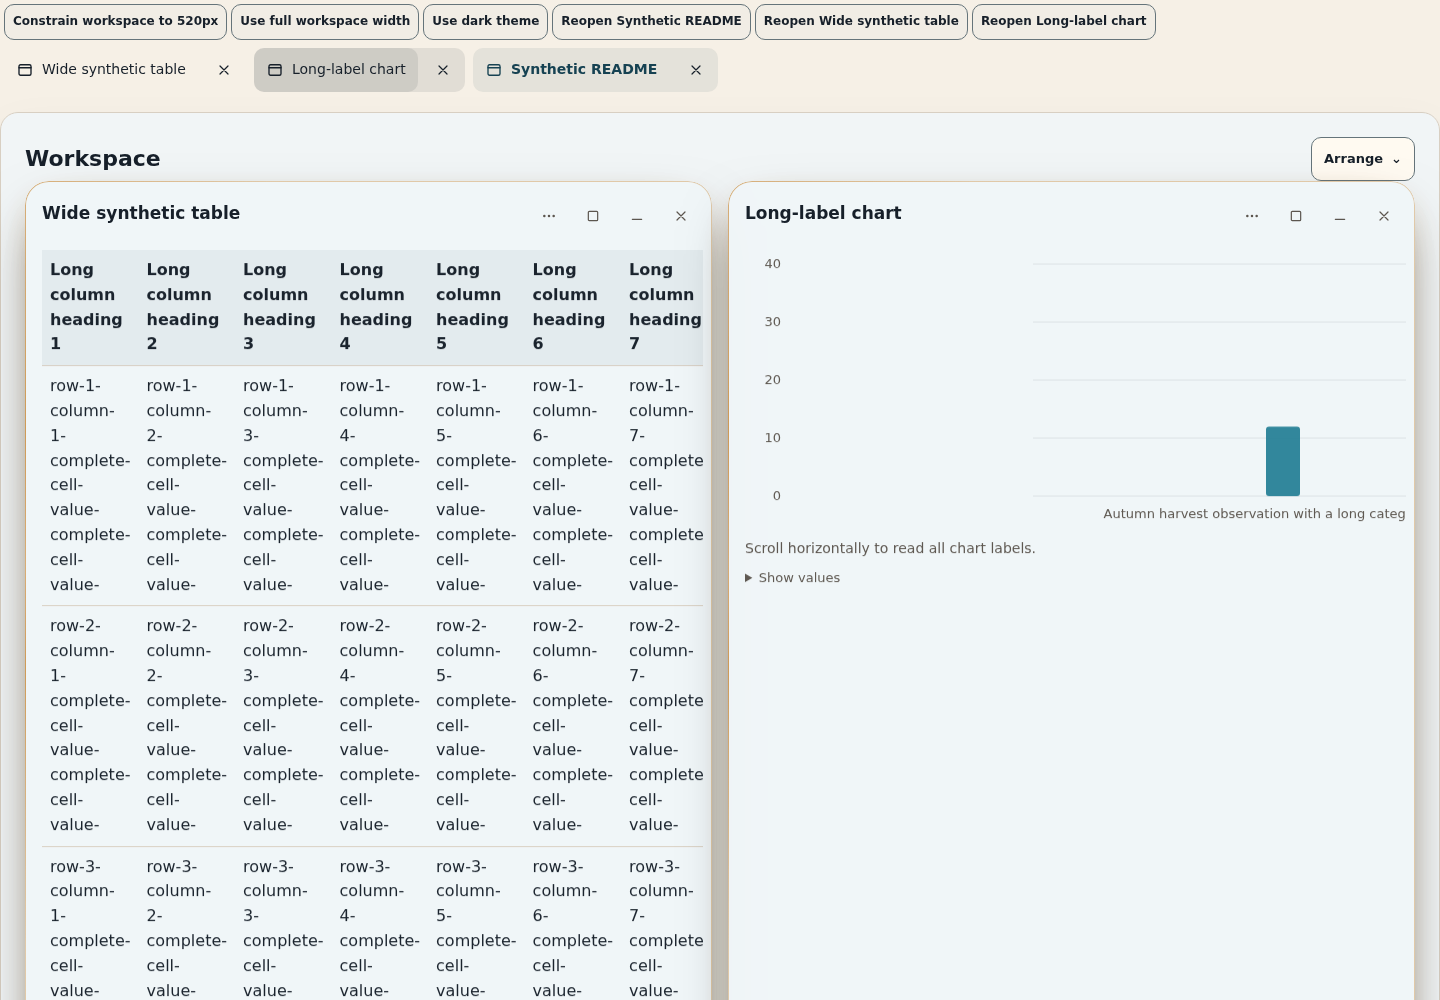
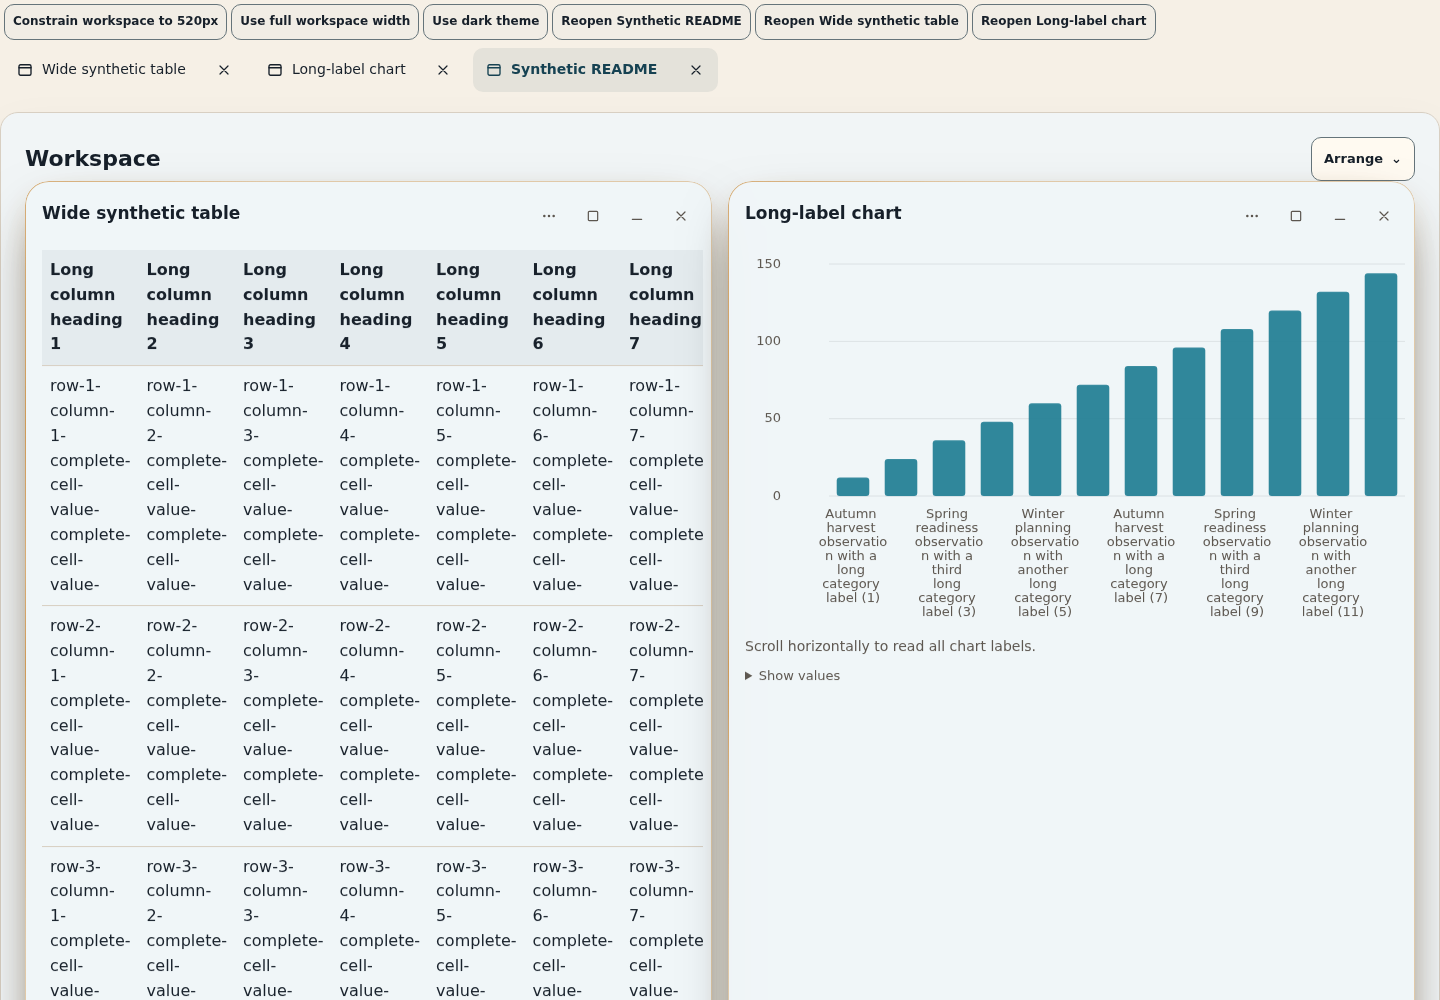
fix: Keep chart plots visible on narrow screens

Changed region(s): [[0.5312, 0.248, 0.9688, 0.682], [0.1562, 0.031, 0.3125, 0.093]]

diff --git a/apps/web/src/ChartView.tsx b/apps/web/src/ChartView.tsx
@@ -2,6 +2,21 @@ import { useEffect, useId, useRef, useState } from 'react';
 import { chartLayout, formatChartNumber, formatChartX, xPosition, yPosition, type ChartSeries } from './chart-data';
 
 const margin = { top: 14, right: 16, bottom: 34, left: 44 };
+const labelLineHeight = 14;
+
+function wrapChartLabel(label: string, maxCharacters: number) {
+  const remaining = Array.from(label);
+  const lines: string[] = [];
+  while (remaining.length > maxCharacters) {
+    let breakAt = Math.min(maxCharacters, remaining.length);
+    while (breakAt > 0 && !/\s/u.test(remaining[breakAt - 1]!)) breakAt -= 1;
+    if (breakAt === 0) breakAt = Math.min(maxCharacters, remaining.length);
+    lines.push(remaining.splice(0, breakAt).join(''));
+  }
+  lines.push(remaining.join(''));
+  return lines;
+}
+
 // Cyan and amber first (the house pair), then softer versions of each for a third to fifth series.
 const colours = [
   'var(--glass-edge-cool)',
@@ -27,15 +42,11 @@ export function ChartView({ kind, series, title }: { kind: 'line' | 'bar' | 'are
     observer.observe(element);
     return () => observer.disconnect();
   }, []);
-  const height = availableWidth < 480 ? 220 : 280;
   const plotWidth = availableWidth - margin.left - margin.right;
-  const plotHeight = height - margin.top - margin.bottom;
-  const py = (fraction: number) => margin.top + (1 - fraction) * plotHeight;
   const bars = kind === 'bar';
   const layout = chartLayout(series, bars, kind !== 'line');
   const numericXs = layout.categorical ? [] : [...new Set(series.flatMap((entry) => entry.points.map((point) => point.x as number)))].sort((a, b) => a - b);
   const maxLabels = availableWidth < 480 ? 4 : 8;
-  const baseline = py(yPosition(layout, Math.max(layout.yMin, Math.min(0, layout.yMax))));
   const xLabels = layout.categorical
     ? layout.categories.map((label, index) => ({ label, at: xPosition(layout, label, bars), index }))
       .filter((_, index, all) => all.length <= maxLabels || index % Math.ceil(all.length / maxLabels) === 0)
@@ -46,7 +57,16 @@ export function ChartView({ kind, series, title }: { kind: 'line' | 'bar' | 'are
       : [0, 0.25, 0.5, 0.75, 1].map((fraction, index) => ({
         label: formatChartX(layout.xMin + fraction * (layout.xMax - layout.xMin)), at: fraction, index,
       }));
-  const labelWidths = xLabels.map(({ label }) => label.length * 8);
+  const maxLabelWidth = Math.min(112, Math.max(48, plotWidth / Math.max(3, xLabels.length + 1)));
+  const maxLabelCharacters = Math.max(1, Math.floor(maxLabelWidth / 8));
+  const wrappedXLabels = xLabels.map((entry) => ({ ...entry, lines: wrapChartLabel(entry.label, maxLabelCharacters) }));
+  const maxLabelLines = Math.max(1, ...wrappedXLabels.map(({ lines }) => lines.length));
+  const bottomMargin = margin.bottom + (maxLabelLines - 1) * labelLineHeight;
+  const height = (availableWidth < 480 ? 220 : 280) + (maxLabelLines - 1) * labelLineHeight;
+  const plotHeight = height - margin.top - bottomMargin;
+  const py = (fraction: number) => margin.top + (1 - fraction) * plotHeight;
+  const baseline = py(yPosition(layout, Math.max(layout.yMin, Math.min(0, layout.yMax))));
+  const labelWidths = wrappedXLabels.map(({ lines }) => Math.max(...lines.map((line) => line.length * 8)));
   const labelWidth = Math.max(0, ...labelWidths);
   const labelPadding = labelWidth / 2;
   const availablePlotWidth = Math.max(0, plotWidth - labelPadding * 2);
@@ -76,8 +96,14 @@ export function ChartView({ kind, series, title }: { kind: 'line' | 'bar' | 'are
             <text x={margin.left - 8} y={py(yPosition(layout, tick))} textAnchor="end" dominantBaseline="middle">{formatChartNumber(tick)}</text>
           </g>
         ))}
-        {xLabels.map(({ label, at, index }) => (
-          <text key={`${label}-${index}`} className="chart-x-label" x={px(at)} y={height - 12} textAnchor="middle">{label}</text>
+        {wrappedXLabels.map(({ label, lines, at, index }) => (
+          <text key={`${label}-${index}`} className="chart-x-label" aria-label={label} x={px(at)}
+            y={height - 12 - (maxLabelLines - 1) * labelLineHeight} textAnchor="middle">
+            <title>{label}</title>
+            {lines.map((line, lineIndex) => (
+              <tspan key={lineIndex} x={px(at)} dy={lineIndex ? labelLineHeight : 0}>{line}</tspan>
+            ))}
+          </text>
         ))}
         {series.map((entry, seriesIndex) => {
           const colour = colours[seriesIndex % colours.length];

diff --git a/apps/web/src/GeneratedViewRenderer.test.tsx b/apps/web/src/GeneratedViewRenderer.test.tsx
@@ -52,7 +52,7 @@ describe('GeneratedViewRenderer timeline', () => {
     expect(screen.getByRole('table', { name: 'Revenue values', hidden: true }).querySelectorAll('tbody tr')).toHaveLength(4);
   });
 
-  it('keeps long chart labels intact in a local scroll region and retains every value', () => {
+  it('wraps long chart labels and retains their full text and values', () => {
     const labels = ['2026 autumn harvest with an extended category label', '2026 winter planning with another extended category label'];
     const view = {
       version: 1, title: 'Seasonal output', renderer: 'chart',
@@ -60,14 +60,32 @@ describe('GeneratedViewRenderer timeline', () => {
       data: { kind: 'bar', series: [{ name: 'Reported', points: labels.map((x, index) => ({ x, y: index + 1 })) }] },
     } as unknown as GeneratedView;
     const { container } = render(<GeneratedViewRenderer view={view} />);
-    const plot = screen.getByRole('region', { name: 'Scrollable chart plot: Seasonal output' });
+    const plot = screen.getByRole('region', { name: 'Chart plot: Seasonal output' });
+
+    expect(plot.hasAttribute('tabindex')).toBe(false);
+    expect(plot.hasAttribute('aria-describedby')).toBe(false);
+    const renderedLabels = Array.from(container.querySelectorAll('.chart-x-label'));
+    expect(renderedLabels.map((label) => label.getAttribute('aria-label'))).toEqual(labels);
+    expect(renderedLabels.map((label) => Array.from(label.querySelectorAll('tspan'), (line) => line.textContent).join(''))).toEqual(labels);
+    expect(renderedLabels.some((label) => label.querySelectorAll('tspan').length > 1)).toBe(true);
+    expect(Number(container.querySelector('svg')?.getAttribute('width'))).toBeLessThanOrEqual(640);
+    expect(screen.getByRole('table', { name: 'Seasonal output values', hidden: true }).querySelectorAll('tbody tr')).toHaveLength(2);
+  });
+
+  it('keeps dense chart labels in a local scroll region when points need more room', () => {
+    const labels = Array.from({ length: 30 }, (_, index) => `Category ${index + 1} with an extended label`);
+    const view = {
+      version: 1, title: 'Dense categories', renderer: 'chart',
+      source: { id: 'usage', status: 'complete', updatedAt: '2026-10-08T16:00:00.000Z' },
+      data: { kind: 'bar', series: [{ name: 'Reported', points: labels.map((x, index) => ({ x, y: index + 1 })) }] },
+    } as unknown as GeneratedView;
+    const { container } = render(<GeneratedViewRenderer view={view} />);
+    const plot = screen.getByRole('region', { name: 'Scrollable chart plot: Dense categories' });
 
     expect(plot.getAttribute('tabindex')).toBe('0');
-    expect(plot.getAttribute('aria-describedby')).toBeTruthy();
     expect(screen.getByText('Scroll horizontally to read all chart labels.')).not.toBeNull();
-    expect(Array.from(container.querySelectorAll('.chart-x-label'), (label) => label.textContent)).toEqual(labels);
     expect(Number(container.querySelector('svg')?.getAttribute('width'))).toBeGreaterThan(640);
-    expect(screen.getByRole('table', { name: 'Seasonal output values', hidden: true }).querySelectorAll('tbody tr')).toHaveLength(2);
+    expect(screen.getByRole('table', { name: 'Dense categories values', hidden: true }).querySelectorAll('tbody tr')).toHaveLength(30);
   });
 
   it('keeps long prose, list, detail, task-card and status content intact', () => {

diff --git a/apps/web/browser-tests/workspace-content.fixture.tsx b/apps/web/browser-tests/workspace-content.fixture.tsx
@@ -43,11 +43,13 @@ const tableView = {
   },
 } as unknown as GeneratedView;
 
-const chartLabels = [
-  'Autumn harvest observation with a long category label',
-  'Winter planning observation with another long category label',
-  'Spring readiness observation with a third long category label',
-];
+const chartLabels = Array.from({ length: 12 }, (_, index) => (
+  `${[
+    'Autumn harvest observation with a long category label',
+    'Winter planning observation with another long category label',
+    'Spring readiness observation with a third long category label',
+  ][index % 3]} (${index + 1})`
+));
 const chartView = {
   version: 1,
   title: 'Long-label chart',

diff --git a/docs/ui/screenshots/workspace-content/README.md b/docs/ui/screenshots/workspace-content/README.md
@@ -6,19 +6,19 @@ Synthetic fixture only; no real repository data, signed-in account, or service i
 | --- | ---: | --- |
 | [Phone code](workspace-320-code.png) | 320 × 700 | Wrapped README and highlighted/search-marked text |
 | [Phone table](workspace-375-table.png) | 375 × 812 | Wide table in its local scroll container |
-| [Phone chart](workspace-390-chart.png) | 390 × 844 | Full long labels in the chart's local scroll container |
+| [Phone chart](workspace-390-chart.png) | 390 × 844 | Plotted bars visible initially; long labels wrap and dense data scrolls locally |
 | [Desktop](workspace-1440-desktop.png) | 1440 × 1000 | Workspace at full width |
-| [Narrow desktop window](workspace-520-narrow-desktop.png) | 1440 × 1000 | Workspace container constrained to 520 CSS px |
+| [Narrow desktop window](workspace-520-narrow-desktop.png) | 1440 × 1000 | Workspace element captured at 520 CSS px with the window in frame |
 
 ![Workspace README at 320 CSS px](workspace-320-code.png)
 
 ![Wide table at 375 CSS px](workspace-375-table.png)
 
-![Long-label chart at 390 CSS px](workspace-390-chart.png)
+![Long-label chart with plotted bars visible at 390 CSS px](workspace-390-chart.png)
 
 ![Workspace at desktop width](workspace-1440-desktop.png)
 
-![Narrow Workspace container on desktop](workspace-520-narrow-desktop.png)
+![Workspace window framed within its 520 CSS px container](workspace-520-narrow-desktop.png)
 
 ## Reproduce the checks
 
@@ -31,7 +31,7 @@ PLAYWRIGHT_CORE_MODULE=/tmp/jarvis-workspace-browser/node_modules/playwright-cor
   node scripts/check-workspace-content-browser.mjs
 ```
 
-The script starts the existing web Vite configuration, uses only synthetic data in `apps/web/browser-tests/workspace-content.fixture.tsx`, asserts no document/body horizontal overflow, and rewrites the screenshots above. It exercises 320 × 700, 375 × 812, 390 × 844, 844 × 390 touch landscape, 160 × 350 CSS px at DPR 2, 1440 × 1000 desktop, a 520px allocated Workspace at desktop width, and resizing the open Workspace through 1024 × 900 and back. It checks line wrapping and original-line scrolling, exact selected-code clipboard text, line highlights/search marks, all table/chart values, keyboard focus and local horizontal scrolling, foreground switching, close/reopen, and light/dark mode.
+The script starts the existing web Vite configuration, uses only synthetic data in `apps/web/browser-tests/workspace-content.fixture.tsx`, asserts no document/body horizontal overflow, and rewrites the screenshots above. It exercises 320 × 700, 375 × 812, 390 × 844, 844 × 390 touch landscape, 160 × 350 CSS px at DPR 2, 1440 × 1000 desktop, a 520px allocated Workspace at desktop width, and resizing the open Workspace through 1024 × 900 and back. At the initial scroll position, it asserts the first three chart data marks are visible at all three phone widths. It checks line wrapping and original-line scrolling, exact selected-code clipboard text, line highlights/search marks, all table/chart values, keyboard focus and local horizontal scrolling, foreground switching, close/reopen, and light/dark mode. The 520px screenshot captures the Workspace element itself so prior page scroll cannot clip the reviewed window.
 
 ## Limits
 

diff --git a/docs/decisions.md b/docs/decisions.md
@@ -58,9 +58,12 @@
   at DPR 2; 1440×1000 desktop; a 520px allocated Workspace container; and
   resizing open windows through 1024×900. It checks exact selected-code
   clipboard text, wrapping/original lines, highlights/search marks, local
-  focusable table/chart scrolling and values, page overflow, theme changes,
-  foreground switching and close/reopen. Durable captures and the reproduction
-  command are in `docs/ui/screenshots/workspace-content/README.md`. Component
+  focusable table/chart scrolling and values, and verifies chart marks are visible
+  at the initial scroll position at each phone width. The 520px capture targets
+  the Workspace element to avoid retained page scroll clipping the window. It also
+  checks page overflow, theme changes, foreground switching and close/reopen.
+  Durable captures and the reproduction command are in
+  `docs/ui/screenshots/workspace-content/README.md`. Component
   suites cover list/detail/timeline/image renderers and sandbox/CSP/bridge
   contracts; those were not exercised in this browser fixture. DPR 2 is not
   actual 200% browser zoom, and Chromium emulation is not physical iPhone or

diff --git a/docs/agent-context.md b/docs/agent-context.md
@@ -3588,7 +3588,7 @@ Workspace content responsiveness (#1260) has a synthetic Chromium fixture at
 does not sign in or call live services. Install `playwright-core@1.64.1` into a
 scratch directory, set `PLAYWRIGHT_CORE_MODULE` to its `index.mjs`, and run the
 script from the repository root; the exact command, viewport matrix, screenshot
-links, and known limits are in
+links, initial-phone chart-mark assertion, and known limits are in
 `docs/ui/screenshots/workspace-content/README.md`.
 
 P9-73 fixture checks used Chromium and WebKit at 390×844, 1280×900 and
